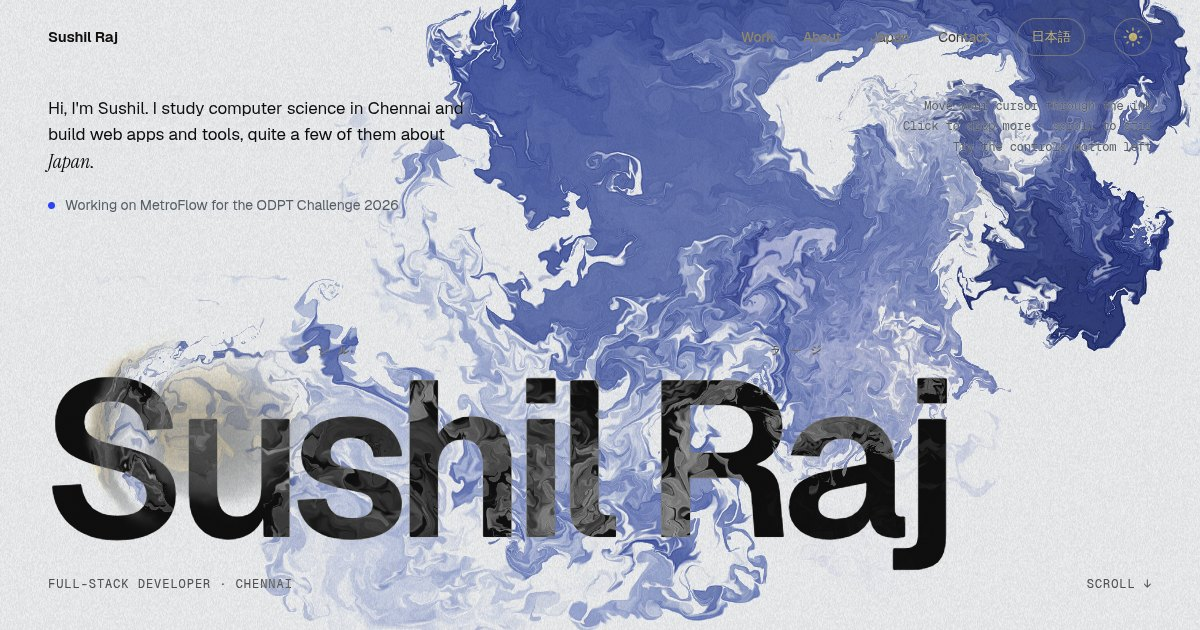
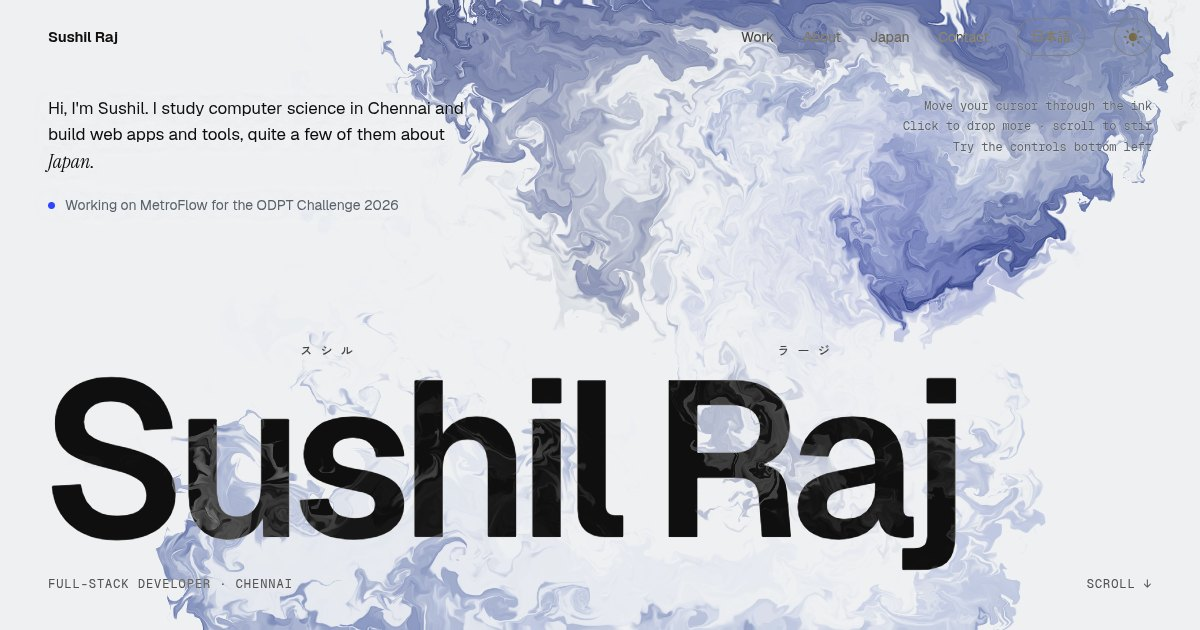
Start in light mode with film grain off

diff --git a/index.html b/index.html
@@ -700,11 +700,11 @@ button.sw[aria-pressed="true"]::after { content: ""; position: absolute; inset: 
   var root = document.documentElement;
   root.classList.add('js');
   function get(k) { try { return localStorage.getItem(k); } catch (e) { return null; } }
-  // The visitor's own theme choice goes in data-mode. It outranks data-theme (which the host page
-  // may set) and the system setting, and it never writes to data-theme, so nothing fights over it.
-  var t = get('sr-theme');
-  if (t === 'light' || t === 'dark') root.dataset.mode = t;
-  if (get('sr-grain') === 'off') root.classList.add('grain-off');
+  // The theme goes in data-mode: light by default, dark only if the visitor chose it. It outranks
+  // data-theme (which the host page may set) and the system setting, and it never writes to data-theme.
+  root.dataset.mode = get('sr-theme') === 'dark' ? 'dark' : 'light';
+  // Film grain is off unless the visitor turned it on.
+  if (get('sr-grain') !== 'on') root.classList.add('grain-off');
   var p = get('sr-pal');
   root.dataset.palette = /^(sumi|indigo|ember|aurora)$/.test(p || '') ? p : 'indigo';
   // Language: the visitor's own choice, or Japanese when the browser's first language is Japanese.
